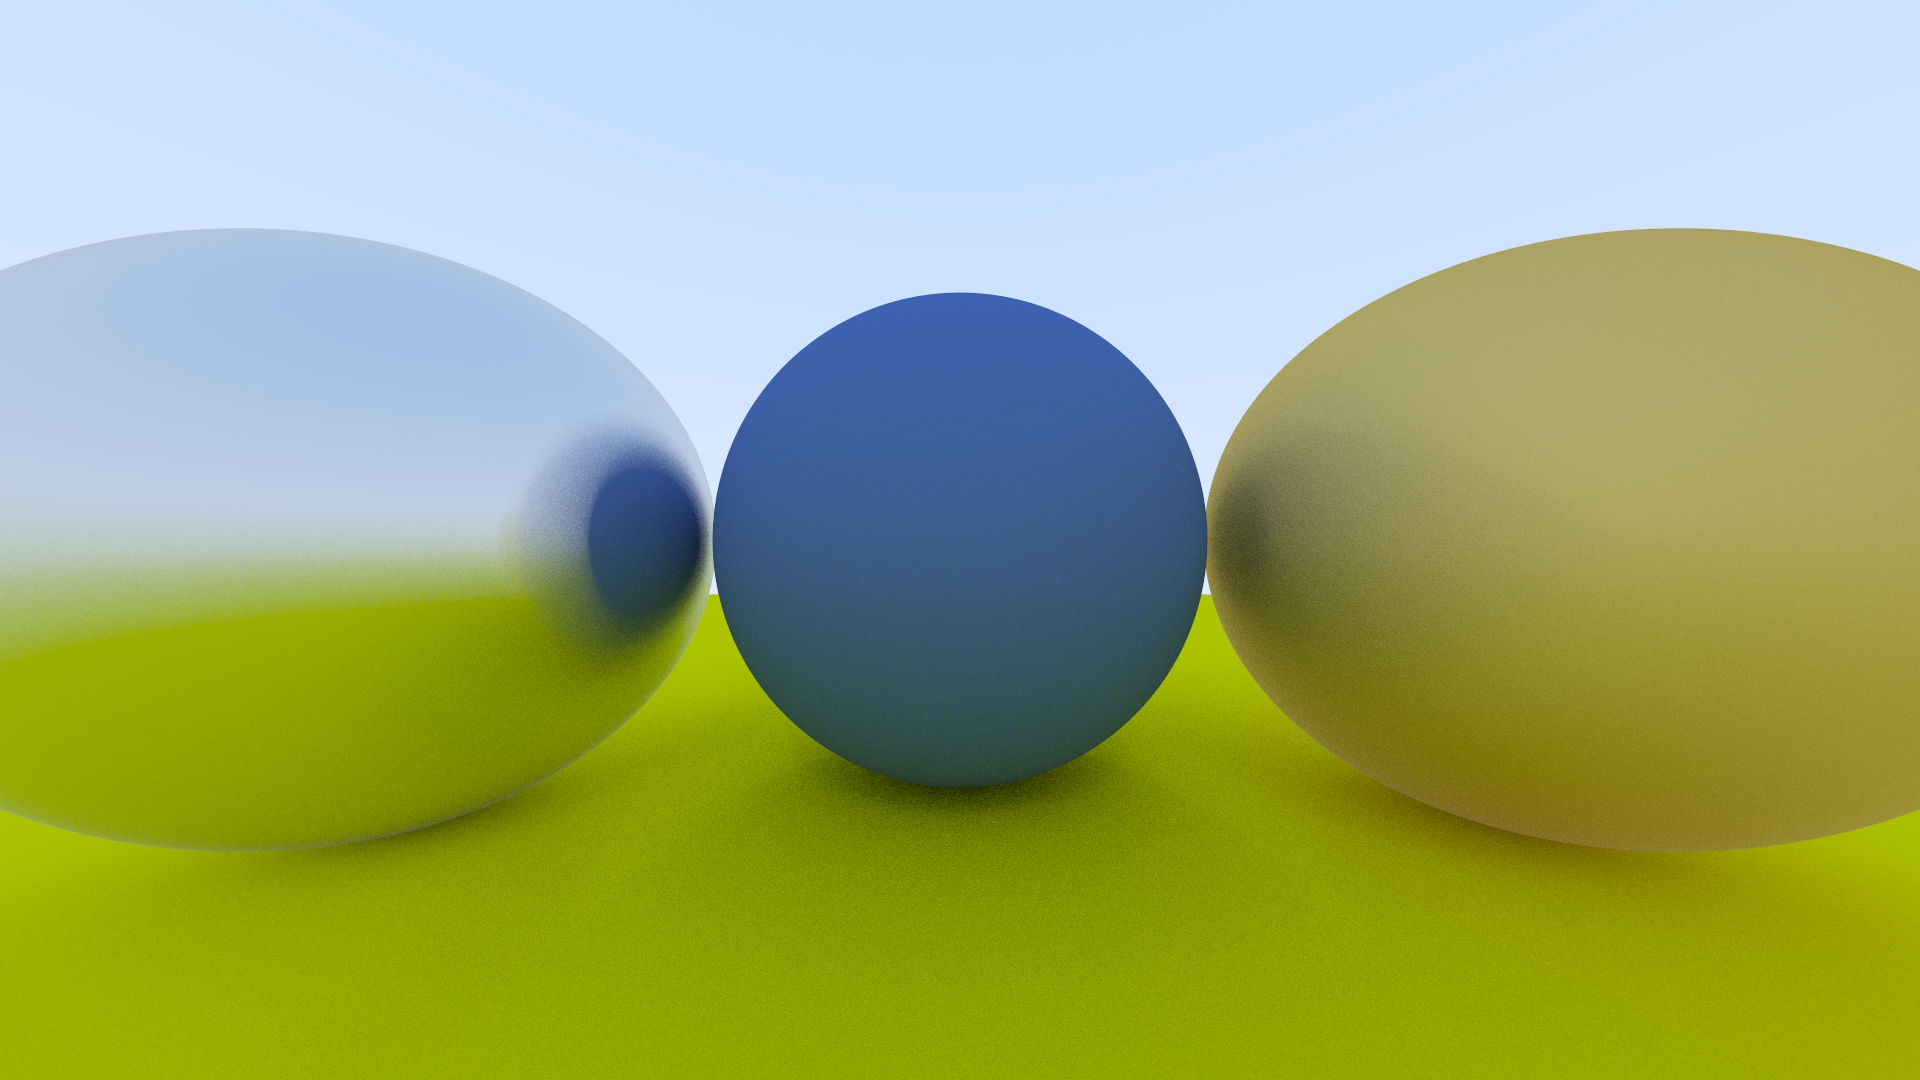
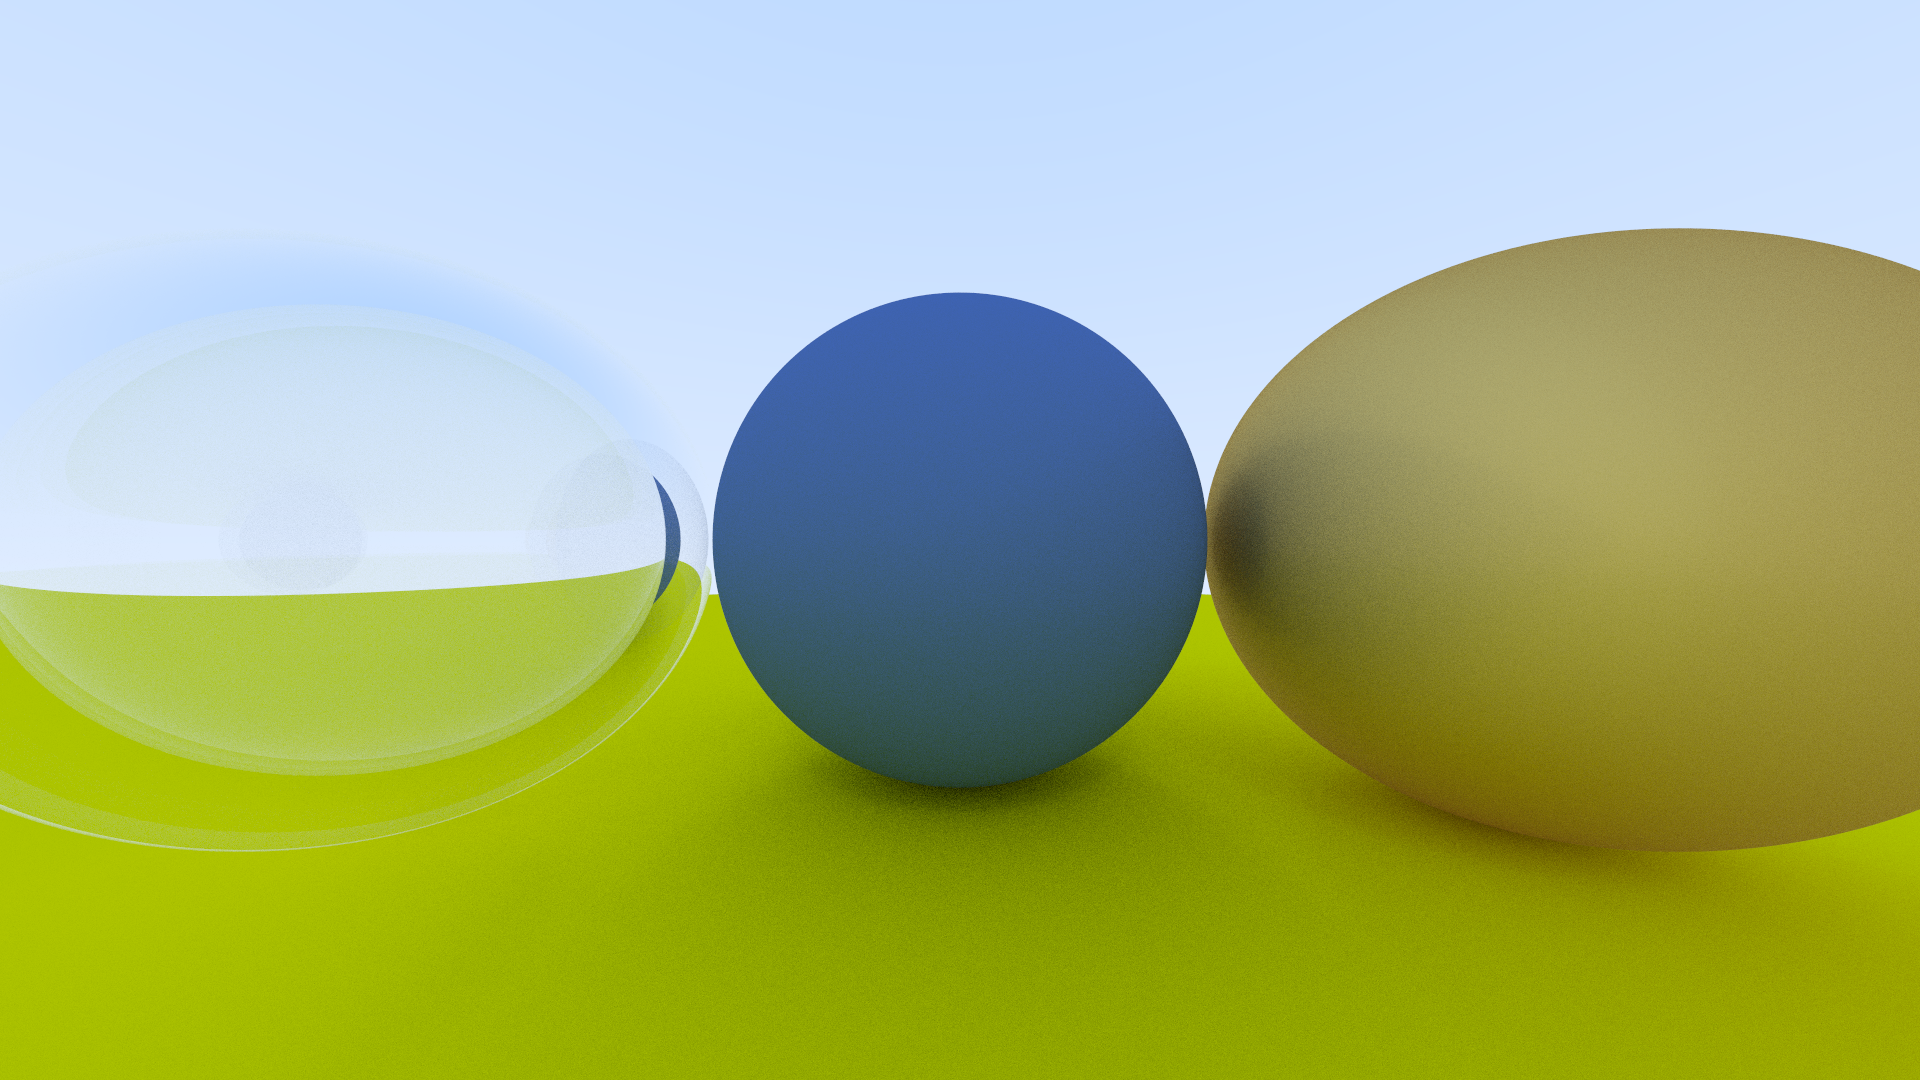
Refractions

diff --git a/src/shapes/material.rs b/src/shapes/material.rs
@@ -1,7 +1,8 @@
 use crate::ray::Ray;
 use crate::shapes::HitRecord;
-use crate::utils::reflect;
+use crate::utils::{reflect, refract};
 use crate::vector3::Vector3;
+use rand::random;
 use std::fmt::Debug;
 
 pub trait Material: Send + Sync + Debug {
@@ -14,7 +15,7 @@ pub struct Lambertian {
 }
 
 impl Material for Lambertian {
-    fn scatter(&self, ray: &Ray, hit_record: &HitRecord) -> Option<(Ray, Vector3)> {
+    fn scatter(&self, _ray: &Ray, hit_record: &HitRecord) -> Option<(Ray, Vector3)> {
         let mut scatter_direction = hit_record.normal + Vector3::random_in_unit_sphere();
 
         if scatter_direction.is_near_zero() {
@@ -57,5 +58,48 @@ impl Metal {
             fuzz = 1.0
         }
         Metal { albedo, fuzz }
+    }
+}
+
+#[derive(Debug, Default)]
+pub struct Dielectric {
+    refraction_index: f64,
+}
+
+impl Dielectric {
+    pub fn new(refraction_index: f64) -> Dielectric {
+        Dielectric { refraction_index }
+    }
+
+    fn reflectance(cosine: f64, refraction_index: f64) -> f64 {
+        let mut r0 = (1.0 - refraction_index) / (1.0 + refraction_index);
+        r0 = r0 * r0;
+        r0 + (1.0 - r0) * (1.0 - cosine).powi(5)
+    }
+}
+
+impl Material for Dielectric {
+    fn scatter(&self, ray: &Ray, hit_record: &HitRecord) -> Option<(Ray, Vector3)> {
+        let attenuation = Vector3::new(1.0, 1.0, 1.0);
+        let refraction_ratio = if hit_record.front_face {
+            1.0 / self.refraction_index
+        } else {
+            self.refraction_index
+        };
+        let cos_theta = (-ray.direction).dot(&hit_record.normal).min(1.0);
+        let sin_theta = (1.0 - cos_theta * cos_theta).sqrt();
+
+        let cannot_refract = refraction_ratio * sin_theta > 1.0;
+
+        let direction = if cannot_refract
+            || Self::reflectance(cos_theta, self.refraction_index) > random::<f64>()
+        {
+            reflect(ray.direction, hit_record.normal)
+        } else {
+            refract(ray.direction, hit_record.normal, refraction_ratio)
+        };
+
+        let scattered = Ray::new(hit_record.poz, direction);
+        Some((scattered, attenuation))
     }
 }

diff --git a/src/shapes/sphere.rs b/src/shapes/sphere.rs
@@ -35,26 +35,23 @@ impl Hittable for Sphere {
         let first_root = (-b - sqrt_d) / (2.0 * a);
         let second_root = (-b + sqrt_d) / (2.0 * a);
 
-        let solution = if first_root >= 0.0 {
+        let solution = if first_root > interval.0 {
             first_root
-        } else if second_root >= 0.0 {
+        } else if second_root > interval.0 {
             second_root
         } else {
             return None;
         };
 
-        if !(solution >= interval.0 && solution <= interval.1) {
+        if solution > interval.1 {
             return None;
         }
 
-        let normal = (ray.point_at(solution) - self.center).normalize();
+        let outward_normal = (ray.point_at(solution) - self.center).normalize();
+        let mut hit = HitRecord::new(solution, ray.point_at(solution), &*self.material);
+        hit.set_face_normal(ray, &outward_normal);
 
-        Some(HitRecord::new(
-            solution,
-            ray.point_at(solution),
-            normal,
-            &*self.material,
-        ))
+        Some(hit)
     }
 }
 
@@ -113,6 +110,6 @@ mod tests {
 
         assert_eq!(hit_record.t, 6.0);
         assert_eq!(hit_record.poz, Vector3::new(0.0, 0.0, -10.0));
-        assert_eq!(hit_record.normal, Vector3::new(0.0, 0.0, -1.0));
+        assert_eq!(hit_record.normal, Vector3::new(-0.0, -0.0, 1.0));
     }
 }

diff --git a/src/main.rs b/src/main.rs
@@ -4,7 +4,7 @@ mod shapes;
 mod utils;
 mod vector3;
 
-use crate::shapes::{Hittable, Lambertian, Metal, Sphere};
+use crate::shapes::{Dielectric, Hittable, Lambertian, Metal, Sphere};
 use crate::vector3::Vector3;
 use camera::Camera;
 use std::time::Instant;
@@ -14,7 +14,8 @@ pub fn generate_image(width: u32, aspect_ratio: f64) {
 
     let material_ground = Box::new(Lambertian::new(Vector3::new(0.8, 0.8, 0.0)));
     let material_center = Box::new(Lambertian::new(Vector3::new(0.1, 0.2, 0.5)));
-    let material_left = Box::new(Metal::new(Vector3::new(0.8, 0.8, 0.8), 0.3));
+    let material_left = Box::new(Dielectric::new(1.5));
+    let material_bubble = Box::new(Dielectric::new(1.0 / 1.5));
     let material_right = Box::new(Metal::new(Vector3::new(0.8, 0.6, 0.2), 1.0));
 
     let sphere_1 = Box::new(Sphere::new(
@@ -41,7 +42,13 @@ pub fn generate_image(width: u32, aspect_ratio: f64) {
         material_right,
     ));
 
-    let hittable: Vec<Box<dyn Hittable>> = vec![sphere_1, sphere_2, sphere_3, sphere_4];
+    let sphere_5 = Box::new(Sphere::new(
+        Vector3::new(-1.0, 0.0, -1.0),
+        0.4,
+        material_bubble,
+    ));
+
+    let hittable: Vec<Box<dyn Hittable>> = vec![sphere_1, sphere_2, sphere_3, sphere_4, sphere_5];
     camera.render(hittable);
 }
 

diff --git a/src/shapes/hit.rs b/src/shapes/hit.rs
@@ -6,16 +6,27 @@ pub struct HitRecord<'a> {
     pub t: f64,
     pub poz: Vector3,
     pub normal: Vector3,
+    pub front_face: bool,
     pub material: &'a dyn Material,
 }
 
 impl<'a> HitRecord<'a> {
-    pub fn new(t: f64, poz: Vector3, normal: Vector3, material: &'a dyn Material) -> Self {
+    pub fn new(t: f64, poz: Vector3, material: &'a dyn Material) -> Self {
         HitRecord {
             t,
             poz,
+            front_face: false,
+            normal: Vector3::default(),
             material,
-            normal,
+        }
+    }
+
+    pub fn set_face_normal(&mut self, ray: &Ray, outward_normal: &Vector3) {
+        self.front_face = ray.direction.dot(outward_normal) <= 0.0;
+        self.normal = if self.front_face {
+            *outward_normal
+        } else {
+            -*outward_normal
         }
     }
 }

diff --git a/src/utils.rs b/src/utils.rs
@@ -10,3 +10,10 @@ pub fn linear_to_gamma(linear_component: f64) -> f64 {
 pub fn reflect(v: Vector3, normal: Vector3) -> Vector3 {
     v - 2.0 * v.dot(&normal) * normal
 }
+
+pub fn refract(v: Vector3, normal: Vector3, refractive_ratio: f64) -> Vector3 {
+    let cos_theta = (-v).dot(&normal).min(1.0);
+    let r_out_perp = refractive_ratio * (v + cos_theta * normal);
+    let r_out_parallel = -(1.0 - r_out_perp.length().powi(2)).abs().sqrt() * normal;
+    r_out_perp + r_out_parallel
+}
